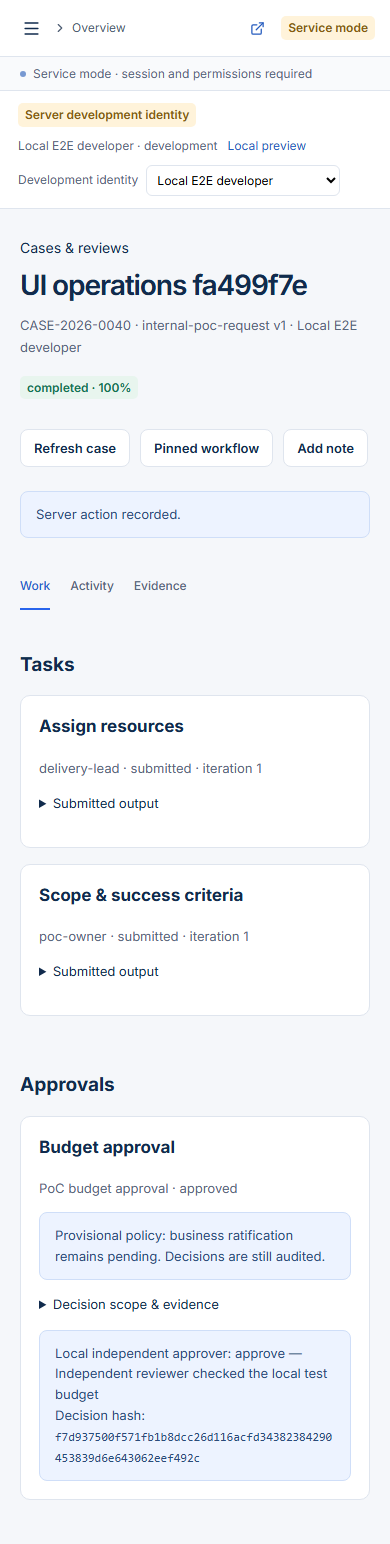
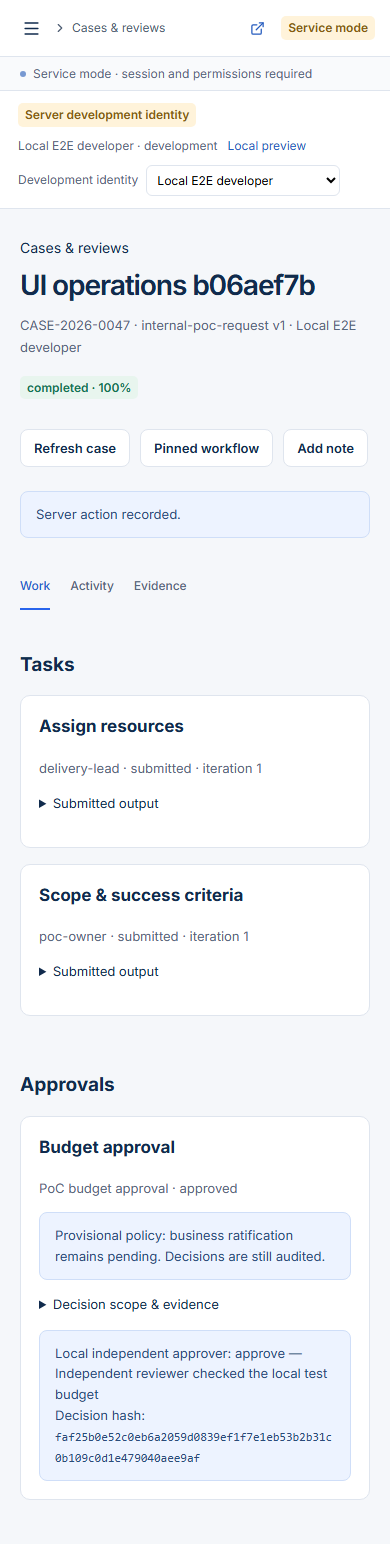
docs: link operations review and refresh navigation evidence

diff --git a/docs/elenio-handoff/STATUS.md b/docs/elenio-handoff/STATUS.md
@@ -6,7 +6,7 @@ Active branch: `feat/elenio-case-operations`, based on Economics checkpoint `87e
 
 Authenticated Cases & reviews now supports real case intake, list search/status/paging, task completion/revision, independent approval, pause/resume/notes, draft review contracts, actual activity/evidence and pinned workflow navigation in the shared UI. All mutations use existing API authorities/If-Match and explicit confirmation; conflicts retain forms. Development persona selection uses only existing server configuration and is absent from production/trusted sessions. No backend or auth rule changes. Details: [CASE_OPERATIONS.md](CASE_OPERATIONS.md).
 
-Validation: 66 unit/component tests; 28 frontend browser regressions; 9 real local API/worker/PostgreSQL browser cases. Lint, typecheck and production build pass. Actual operations screenshots reviewed desktop/mobile; serious/critical axe checks pass. Implementation SHA: `6b8efb2a64bf0098e1896710066697e8dc4e9fc3`. History scan: same nine original non-secret matches, no new findings. Final machine-readable evidence is `operations-verification.json`; exact delivery SHA is `git rev-parse HEAD`.
+Validation: 66 unit/component tests; 28 frontend browser regressions; 9 real local API/worker/PostgreSQL browser cases. Lint, typecheck and production build pass. Actual operations screenshots reviewed desktop/mobile; serious/critical axe checks pass. Implementation SHA: `0993d07ffdf189fe96bfa5655ecf39897ffb0a32`. History scan: same nine original non-secret matches, no new findings. Final machine-readable evidence is `operations-verification.json`; exact delivery SHA is `git rev-parse HEAD`.
 
 ## Retained checkpoints
 
@@ -24,3 +24,5 @@ Validation: 66 unit/component tests; 28 frontend browser regressions; 9 real loc
 5. Connect an approved model last; then run real Architect generation, agent revisions/evals/releases and the full model-backed pilot. Provider absence is confirmed and does not authorize fake success.
 
 Local sandbox remains loopback-only with real PostgreSQL/API/worker, server development identities and external model/KMS/connectors disabled. Original operator mini-app remains distinct; the new operations page is not complete customer workspace acceptance. Inherited development advisories and lazy ELK bundle warning remain. No upstream write, main merge or deployment.
+
+Case operations draft PR: https://github.com/abitiyoso/elenio-ai-workspaces/pull/4 (base: feat/elenio-economics-scenarios). Final navigation labels preserve case context. Nine live cases, lint and typecheck reverified after that correction.
